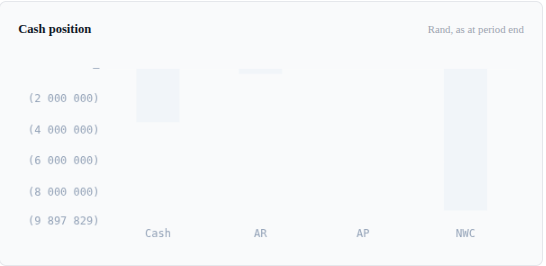
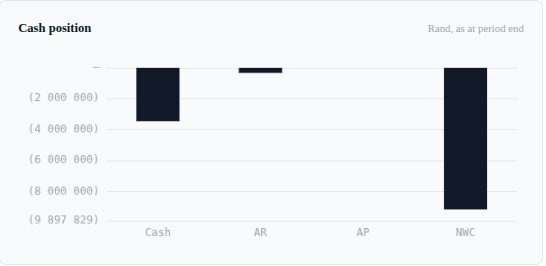
fix(charts): ChartFrame re-resolves the palette on theme change

diff --git a/src/components/accounting/charts/ChartFrame.tsx b/src/components/accounting/charts/ChartFrame.tsx
@@ -5,15 +5,37 @@ import { buildTheme } from '@/lib/charts/theme';
 import { DEFAULT_PALETTE, paletteFromTheme, type ChartPalette } from './chartTypes';
 
 /**
- * The palette, resolved once after mount. `DEFAULT_PALETTE` is returned on
- * the server and for the first client paint so the markup matches and React
- * does not warn about a hydration mismatch.
+ * The palette, re-resolved whenever `<html>`'s `class`/`data-theme` actually
+ * changes. `DEFAULT_PALETTE` is returned on the server and for the first
+ * client paint so the markup matches and React does not warn about a
+ * hydration mismatch.
+ *
+ * This watches the DOM attribute directly, via `MutationObserver`, rather
+ * than subscribing to `ThemeContext`'s `theme` value: `ThemeContext` flips
+ * the `dark` class from its OWN effect, and that effect is a sibling of
+ * this one, not an ancestor — React fires passive effects bottom-up on
+ * both mount and update, so a `useEffect([theme])` here would still run
+ * BEFORE `ThemeProvider`'s effect had touched the class, and would read
+ * `getComputedStyle` one toggle behind. A `MutationObserver` only fires
+ * once the class attribute has actually mutated, so it can't win that race,
+ * and it repaints every chart no matter what flips the class (the app's
+ * theme toggle, a future preference switch, or a script).
  */
 export function useChartPalette(): ChartPalette {
   const [resolved, setResolved] = useState<ChartPalette | null>(null);
   useEffect(() => {
-    const styles = getComputedStyle(document.documentElement);
-    setResolved(paletteFromTheme(buildTheme((name) => styles.getPropertyValue(name).trim())));
+    const resolve = () => {
+      const styles = getComputedStyle(document.documentElement);
+      setResolved(paletteFromTheme(buildTheme((name) => styles.getPropertyValue(name).trim())));
+    };
+    resolve();
+
+    const observer = new MutationObserver(resolve);
+    observer.observe(document.documentElement, {
+      attributes: true,
+      attributeFilter: ['class', 'data-theme'],
+    });
+    return () => observer.disconnect();
   }, []);
   return resolved ?? DEFAULT_PALETTE;
 }

diff --git a/tests/unit/components/charts/ChartFrame.test.tsx b/tests/unit/components/charts/ChartFrame.test.tsx
@@ -1,5 +1,5 @@
 import { describe, it, expect, afterEach, vi } from 'vitest';
-import { render, screen, cleanup } from '@testing-library/react';
+import { render, screen, cleanup, waitFor, act } from '@testing-library/react';
 import { ChartFrame } from '@/components/accounting/charts/ChartFrame';
 
 vi.mock('@/components/charts/EChartClient', () => ({
@@ -39,5 +39,36 @@ describe('ChartFrame', () => {
     );
     expect(screen.queryByTestId('echart')).toBeNull();
     expect(screen.getByText(/Opening cash is negative/)).toBeTruthy();
+  });
+
+  it('re-resolves the palette when the DOM theme class changes, so a client-side toggle repaints every chart', async () => {
+    const style = document.createElement('style');
+    style.textContent = `
+      :root { --ff-text-primary: #111111; }
+      .dark { --ff-text-primary: #eeeeee; }
+    `;
+    document.head.appendChild(style);
+    const seen: string[] = [];
+
+    render(
+      <ChartFrame title="T" unit="Rand">
+        {(p) => { seen.push(p.ink); return { series: [] }; }}
+      </ChartFrame>,
+    );
+
+    await waitFor(() => expect(seen.length).toBeGreaterThan(0));
+    const initialInk = seen[seen.length - 1];
+
+    await act(async () => {
+      document.documentElement.classList.add('dark');
+      // MutationObserver callbacks fire as a microtask, after the mutation
+      // that triggers them — flush the microtask queue before asserting.
+      await Promise.resolve();
+    });
+
+    await waitFor(() => expect(seen[seen.length - 1]).not.toBe(initialInk));
+
+    document.documentElement.classList.remove('dark');
+    document.head.removeChild(style);
   });
 });
